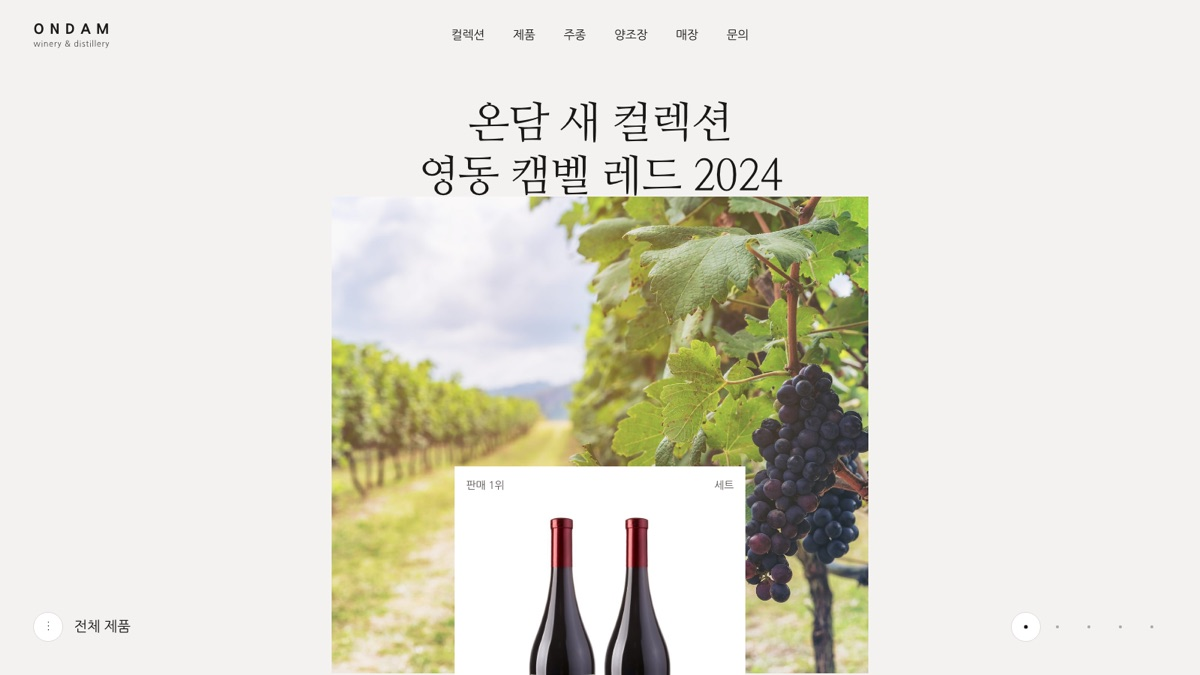
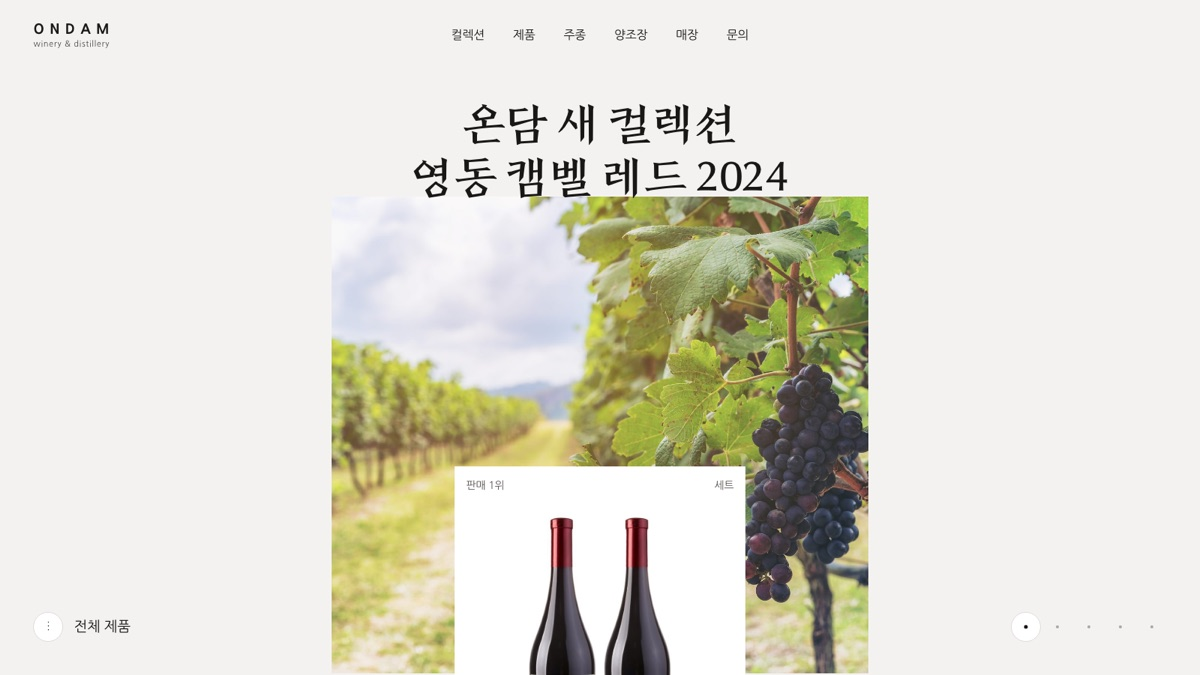
온담(ONDAM): 타이틀 서체 전주완판본으로 교체, 썸네일 갱신

Changed region(s): [[0.3392, 0.1556, 0.6783, 0.3111]]

diff --git a/ai-landingpage/F&B/29.ONDAM/styles.css b/ai-landingpage/F&B/29.ONDAM/styles.css
@@ -1,11 +1,21 @@
 /* =========================================================
    ONDAM 온담양조 · 와인, 과실주, 증류주
-   Display: Nanum Myeongjo (subset, 28px 이상 타이틀 전용) / Body: Nanum Gothic (subset)
+   Display: 전주완판본 JeonjuWanpanbon (28px 이상 타이틀 전용) / Body: Nanum Gothic (subset)
    ========================================================= */
 @font-face{
-  font-family:'Nanum Myeongjo Sub';
-  src:url('fonts/nanummyeongjo-sub.woff2') format('woff2');
-  font-weight:400; font-style:normal; font-display:swap;
+  font-family:'JeonjuWanpanbon';
+  src:url('https://cdn.jsdelivr.net/gh/projectnoonnu/noonfonts_2102-01@1.0/Jeonju_gakL.woff') format('woff');
+  font-weight:300; font-display:swap;
+}
+@font-face{
+  font-family:'JeonjuWanpanbon';
+  src:url('https://cdn.jsdelivr.net/gh/projectnoonnu/noonfonts_2102-01@1.0/Jeonju_gakR.woff') format('woff');
+  font-weight:normal; font-display:swap;
+}
+@font-face{
+  font-family:'JeonjuWanpanbon';
+  src:url('https://cdn.jsdelivr.net/gh/projectnoonnu/noonfonts_2102-01@1.0/Jeonju_gakB.woff') format('woff');
+  font-weight:700; font-display:swap;
 }
 @font-face{
   font-family:'Nanum Gothic Sub';
@@ -48,7 +58,7 @@
   --fs-small:16px;
   --fs-foot:14px;
 
-  --serif:'Nanum Myeongjo Sub', 'Nanum Myeongjo', serif;
+  --serif:'JeonjuWanpanbon', serif;
   --sans:'Nanum Gothic Sub', 'Nanum Gothic', system-ui, sans-serif;
   --ease:cubic-bezier(.16, 1, .3, 1);
   --ease-io:cubic-bezier(.76, 0, .24, 1);

diff --git a/ai-landingpage/F&B/29.ONDAM/index.html b/ai-landingpage/F&B/29.ONDAM/index.html
@@ -6,9 +6,8 @@
 <title>ONDAM 온담양조</title>
 <meta name="description" content="충북 영동의 포도밭에서 와인과 과실주, 증류주를 빚는 온담양조입니다.">
 <link rel="preload" as="image" href="img/hero_01.jpg">
-<link rel="preload" as="font" type="font/woff2" href="fonts/nanummyeongjo-sub.woff2" crossorigin>
 <link rel="stylesheet" href="https://cdn.jsdelivr.net/npm/@phosphor-icons/web@2.1.1/src/light/style.css">
-<link rel="stylesheet" href="styles.css?v=1">
+<link rel="stylesheet" href="styles.css?v=2">
 </head>
 <body class="is-gated">
 
@@ -356,6 +355,6 @@
 
 <div class="cursor" aria-hidden="true"><i></i></div>
 <script src="https://cdn.jsdelivr.net/npm/lenis@1.1.13/dist/lenis.min.js"></script>
-<script src="script.js?v=1"></script>
+<script src="script.js?v=2"></script>
 </body>
 </html>
